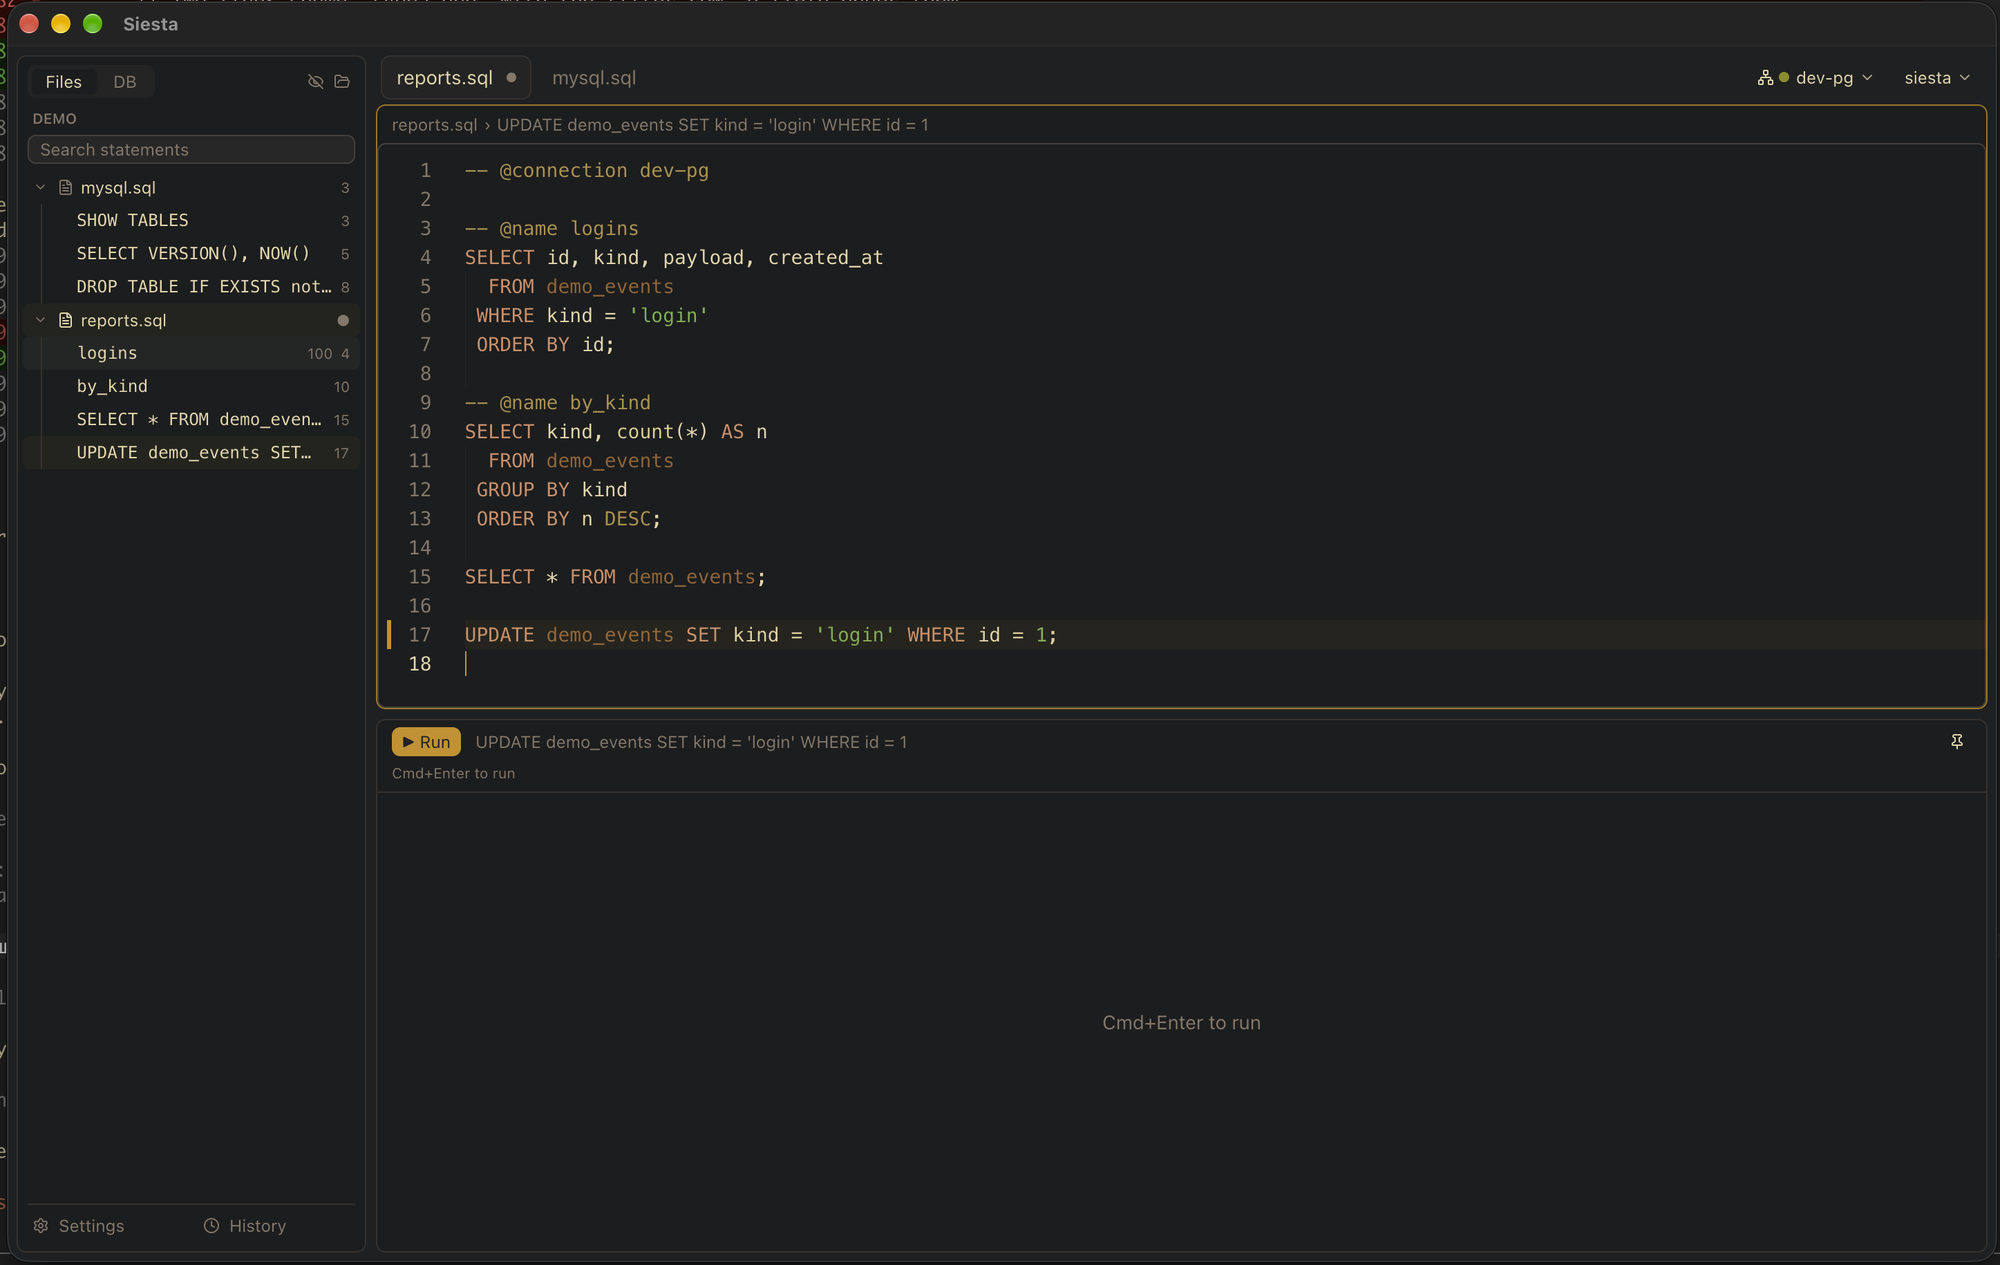
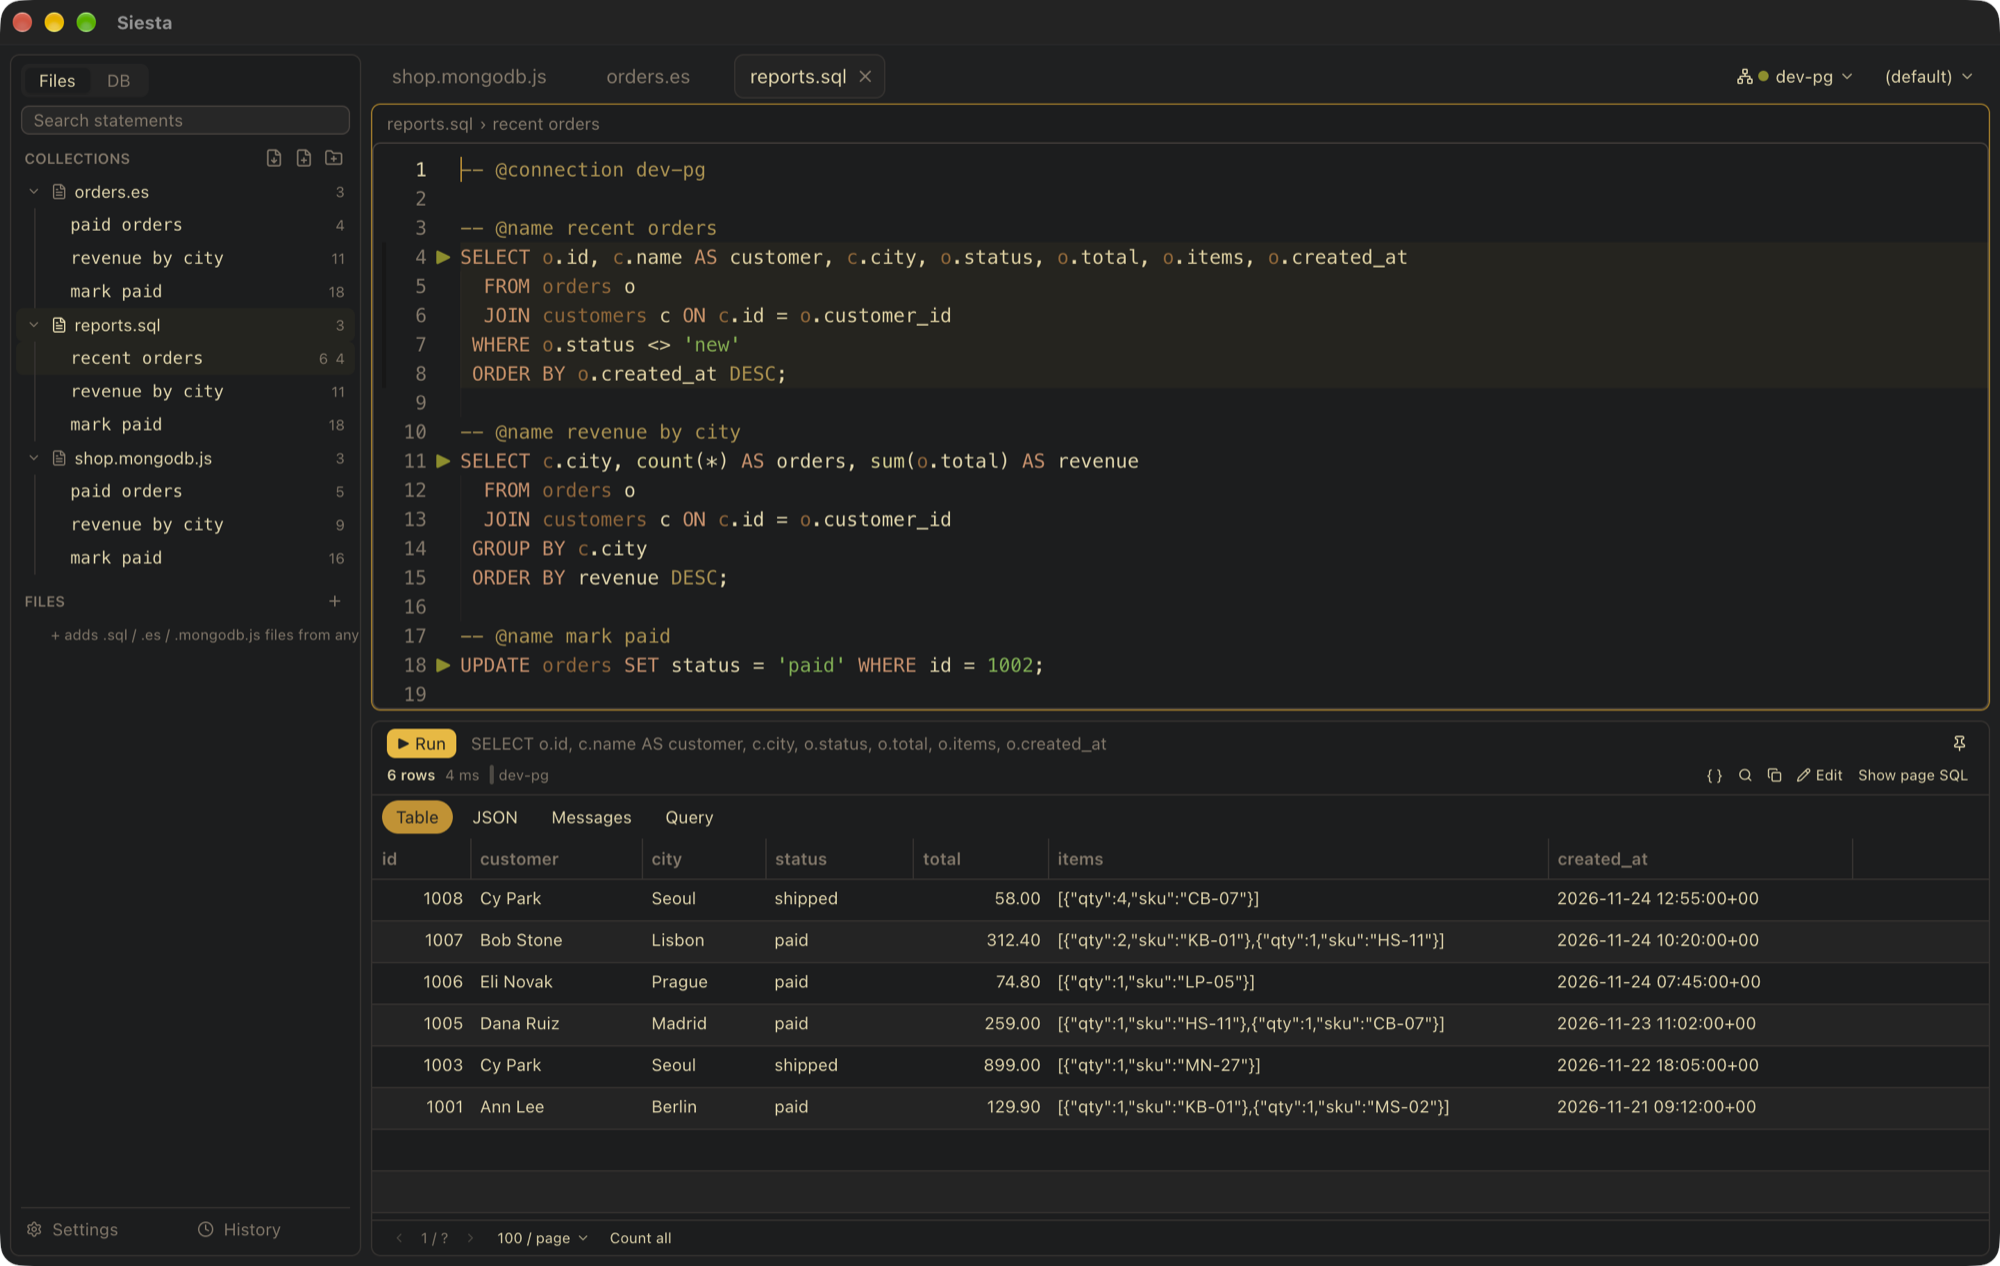
docs: new main screenshot (Postgres query with its rows; .sql, .es and .mongodb.js files in the sidebar), also on the Desktop app page

diff --git a/README.md b/README.md
@@ -17,7 +17,7 @@ Write a statement, press <kbd>⌘</kbd> <kbd>Enter</kbd>, read the result. No pr
 [![Platform](https://img.shields.io/badge/platform-macOS-lightgrey?logo=apple)](#install)
 [![License: MIT](https://img.shields.io/badge/license-MIT-green)](Cargo.toml)
 
-<img src="docs/screenshot.png" width="900" alt="Siesta: statement tree, .sql editor, connection and database pickers, result panel">
+<img src="docs/screenshot.png" width="900" alt="Siesta: .sql, .es and .mongodb.js files in the sidebar, a Postgres query in the editor, its rows in the result table">
 
 </div>
 

diff --git a/docs/desktop-app.md b/docs/desktop-app.md
@@ -2,6 +2,8 @@
 
 # Desktop app
 
+<img src="screenshot.png" width="900" alt="Siesta: the sidebar with query files, a Postgres query in the editor, its rows in the result table">
+
 ## The window
 
 | Part | What it does |
